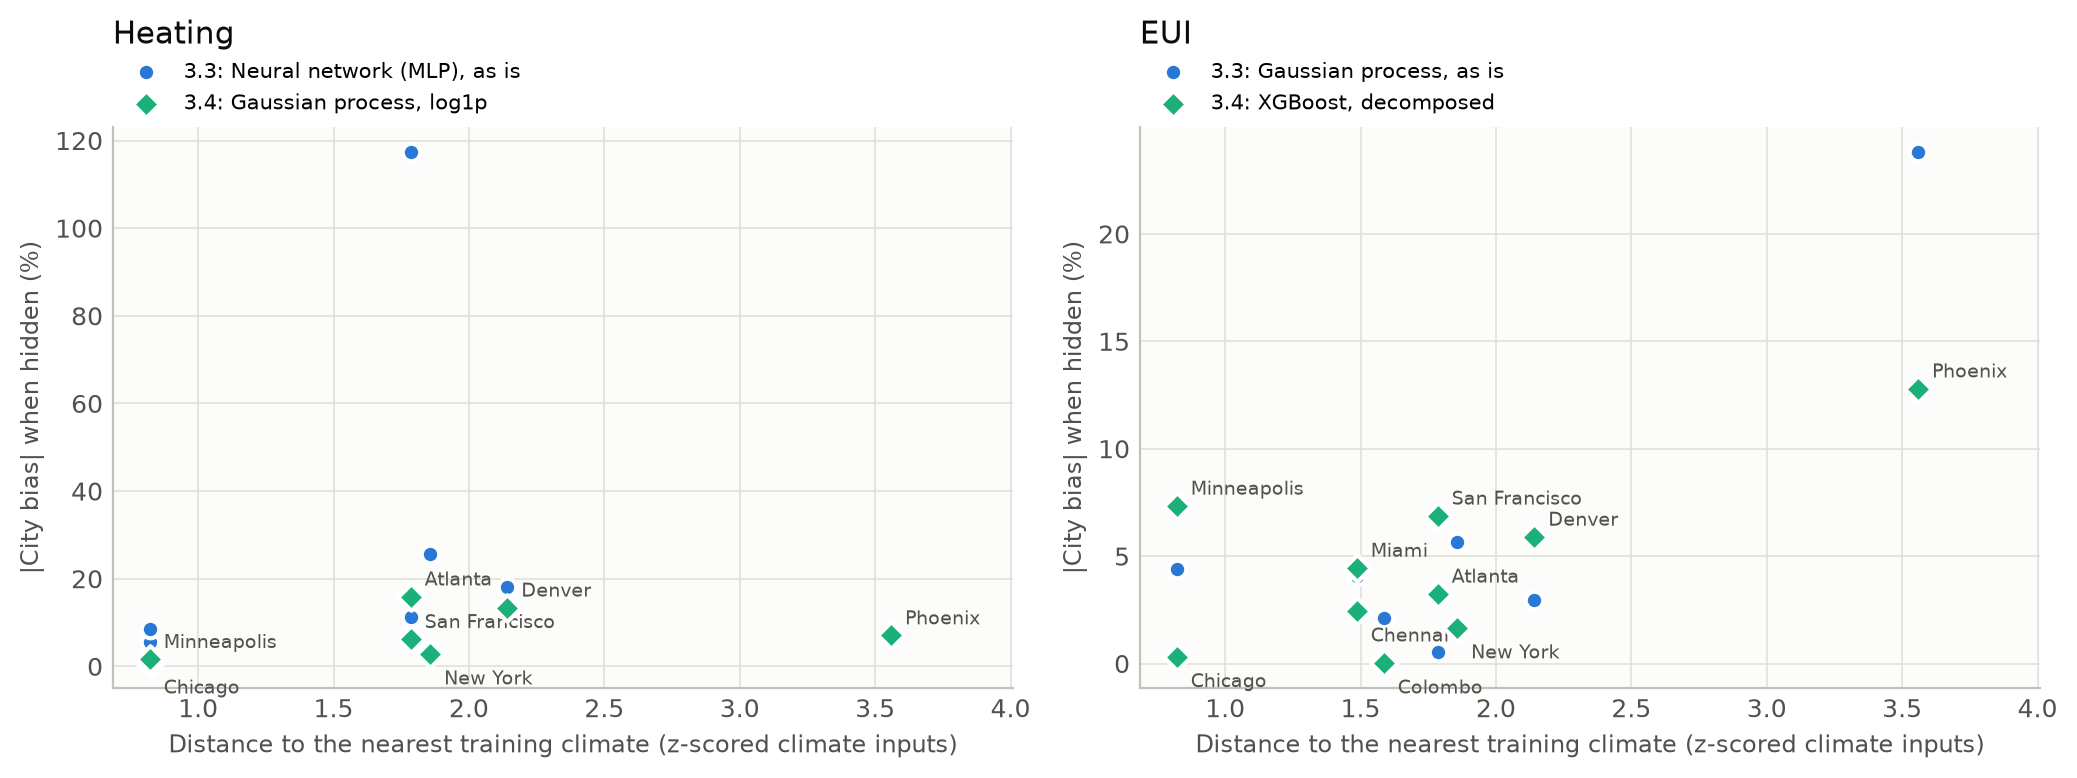
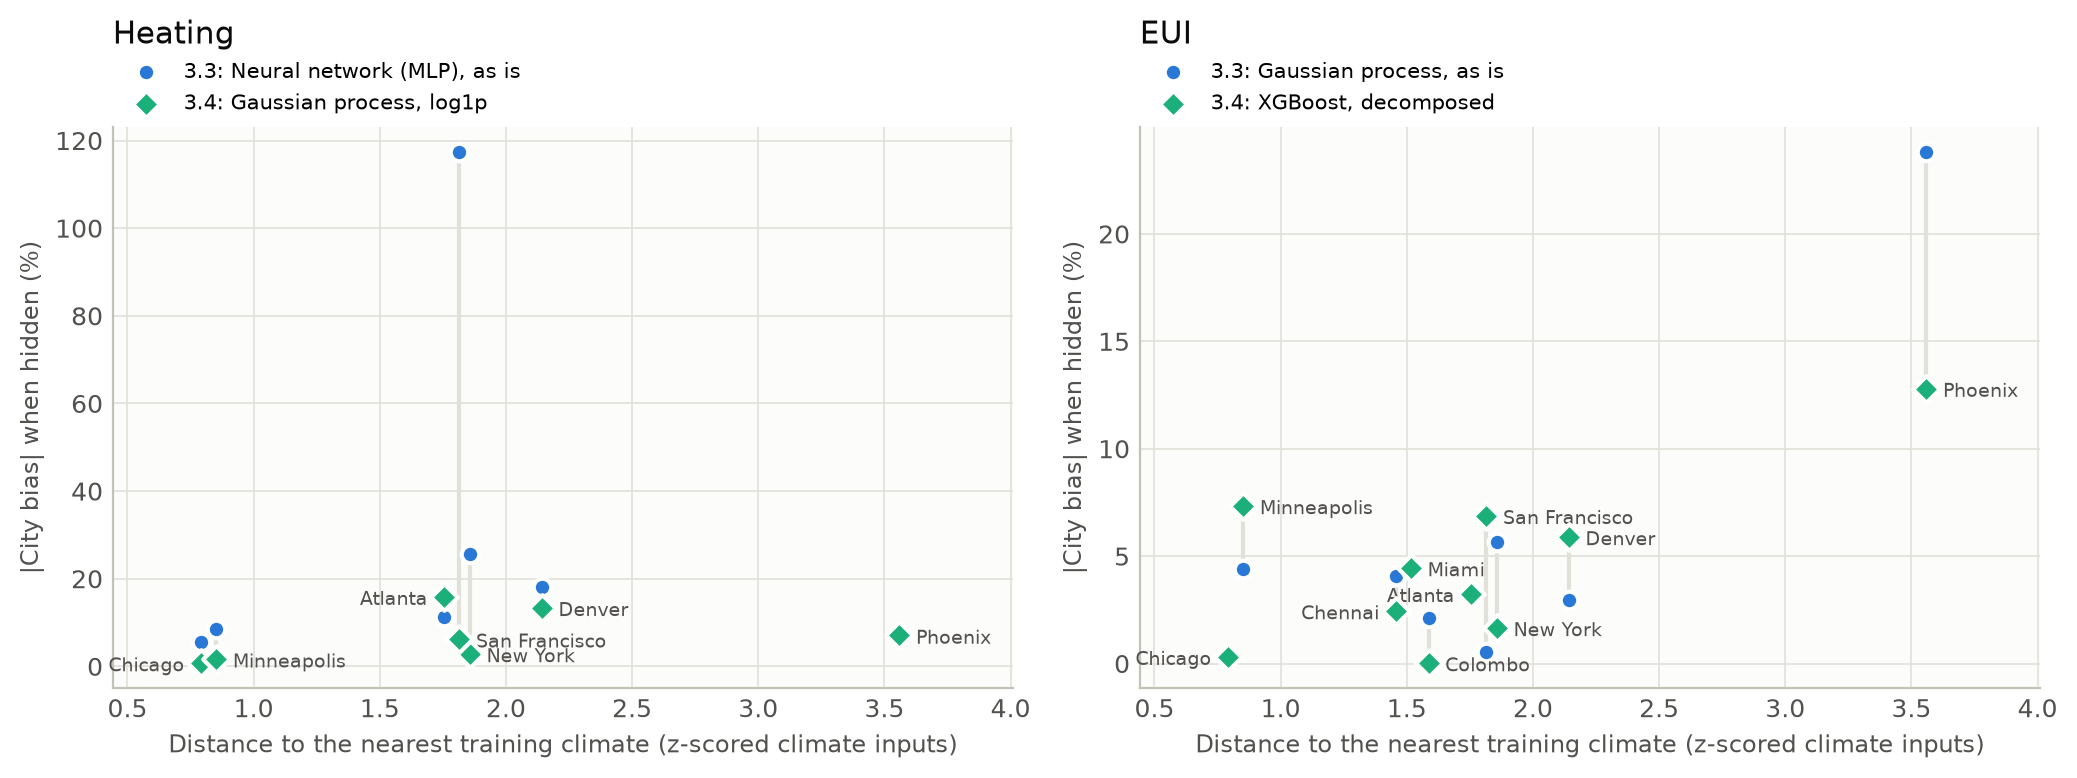
3.4: error-vs-distance figure joins each city's before/after pair

diff --git a/surrogate/climate_gen.py b/surrogate/climate_gen.py
@@ -529,17 +529,30 @@ def fig_error_vs_distance(d: Path, pc: pd.DataFrame, sel: dict, dist: pd.DataFra
         ax.grid(axis="y", color=GRID, linewidth=0.6)
         new = _pick_rows(pc, t, sel[t]["model"], sel[t]["feature_set"], sel[t]["form"]).set_index("climate_key")
         old = _pick_rows(pc, t, PROVISIONAL_3_3[t], "C-G", "direct").set_index("climate_key")
-        x = dist.loc[new.index, "distance_to_nearest"]
-        ax.scatter(dist.loc[old.index, "distance_to_nearest"], old["abs_bias_pct"], s=40, color=SERIES[0],
+        x = dist.loc[new.index, "distance_to_nearest"].copy()
+        # cities that are each other's nearest neighbour share a distance: nudge them apart so each
+        # blue-green pair has its own column (display only; the table holds exact distances)
+        left = set()
+        for _, grp in x.groupby(x.round(6)):
+            if len(grp) > 1:
+                for j, c in enumerate(sorted(grp.index)):
+                    x[c] += (j - (len(grp) - 1) / 2) * 0.06
+                    if j == 0:
+                        left.add(c)
+        xo = x.reindex(old.index)
+        for c in new.index:
+            if c in old.index:
+                ax.plot([x[c], x[c]], [old.loc[c, "abs_bias_pct"], new.loc[c, "abs_bias_pct"]], color=GRID,
+                        linewidth=1.5, zorder=2)
+        ax.scatter(xo, old["abs_bias_pct"], s=40, color=SERIES[0],
                    edgecolor="white", linewidth=1.5, zorder=3, label=f"3.3: {models.LABEL[PROVISIONAL_3_3[t]]}, as is")
         ax.scatter(x, new["abs_bias_pct"], s=46, color=SERIES[2], marker="D", edgecolor="white", linewidth=1.5,
                    zorder=4, label=f"3.4: {models.LABEL[sel[t]['model']]}, {sel[t]['form']}")
-        below = {"chicago", "colombo", "new_york", "chennai"}            # nearest-pair labels go below to avoid overlap
-        for c in new.index:
-            dy = -11 if c in below else 4
-            ax.annotate(CITY[c], (x[c], new.loc[c, "abs_bias_pct"]), xytext=(5, dy), textcoords="offset points",
-                        fontsize=7, color=INK2)
-        ax.set_xlim(right=max(ax.get_xlim()[1], float(x.max()) + 0.45))
+        for c in new.index:                                   # left member of a shared column: label on the left
+            dx, ha = (-6, "right") if c in left else (6, "left")
+            ax.annotate(CITY[c], (x[c], new.loc[c, "abs_bias_pct"]), xytext=(dx, -3), textcoords="offset points",
+                        fontsize=7, color=INK2, ha=ha)
+        ax.set_xlim(left=min(ax.get_xlim()[0], float(x.min()) - 0.35), right=max(ax.get_xlim()[1], float(x.max()) + 0.45))
         ax.set_xlabel("Distance to the nearest training climate (z-scored climate inputs)", color=INK2, fontsize=8.5)
         ax.set_ylabel("|City bias| when hidden (%)", color=INK2, fontsize=8.5)
         ax.set_title(SHORT[t], color=INK, fontsize=11, loc="left", pad=30)
